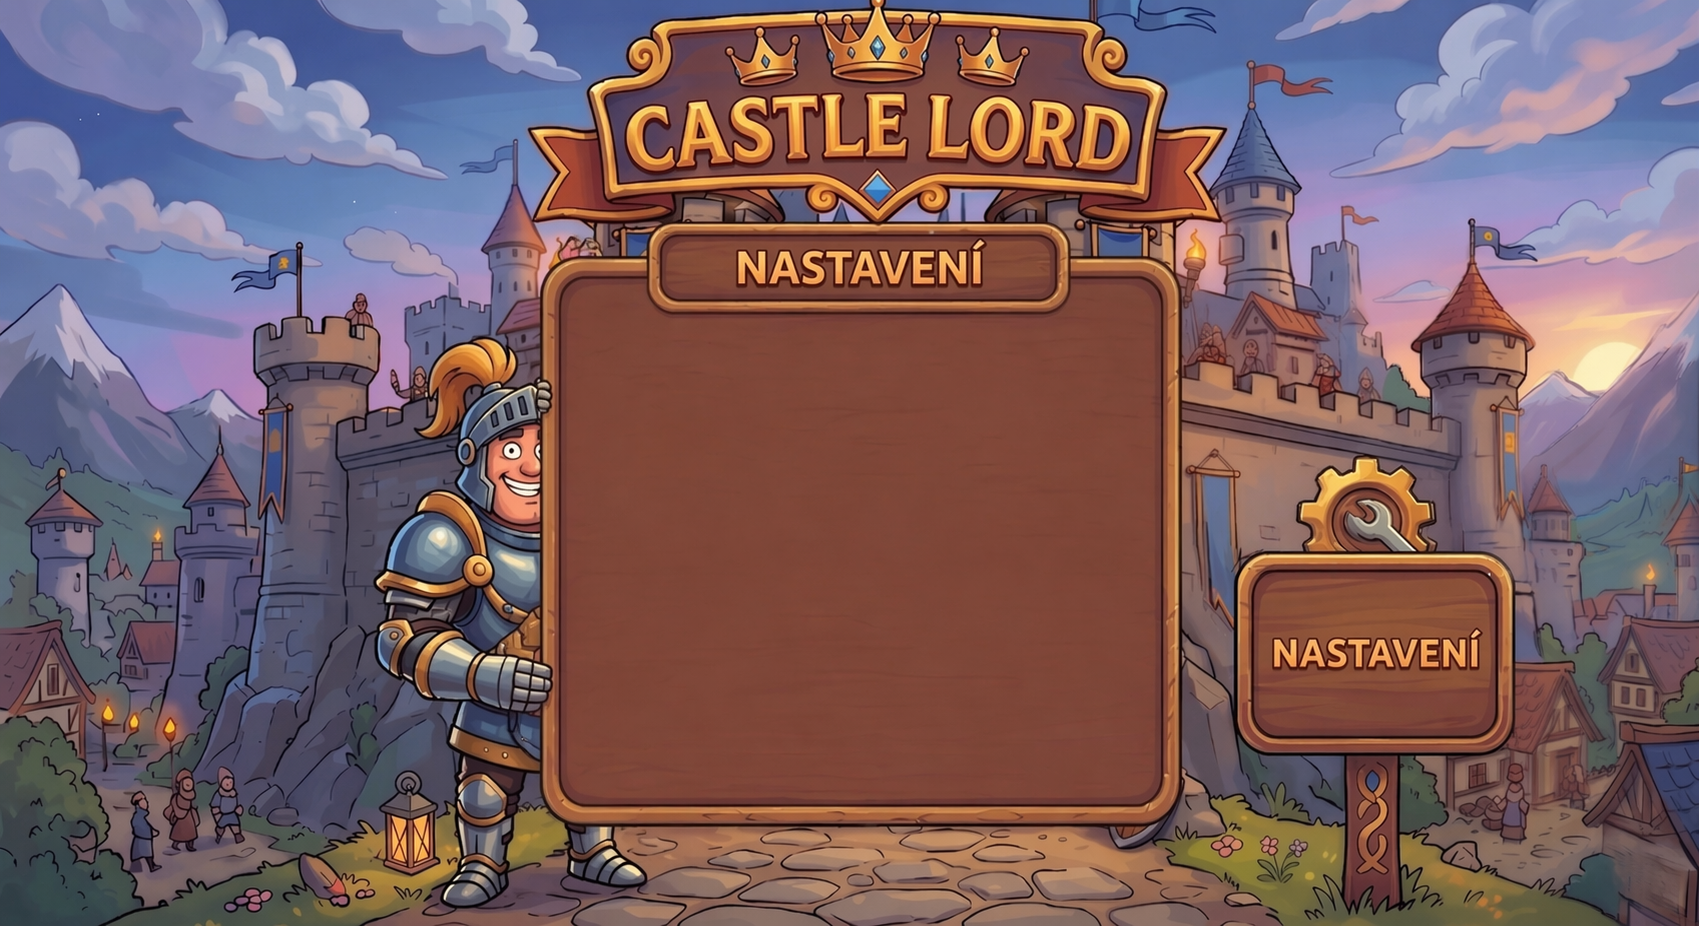
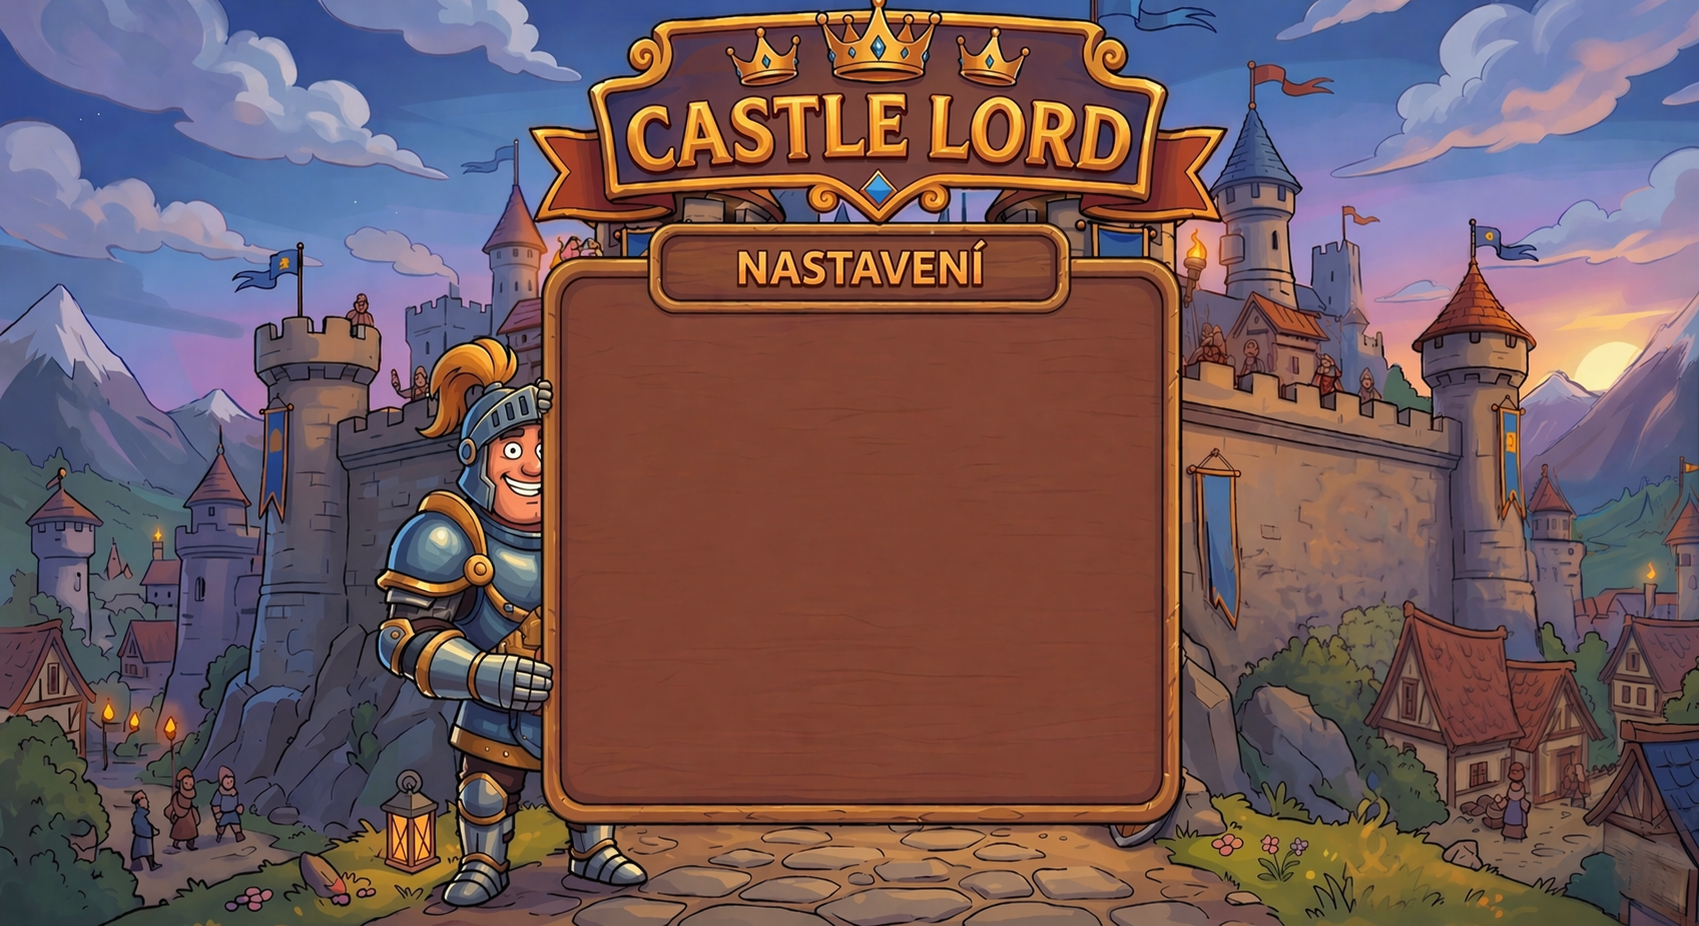
NacitaciObrazovka

diff --git a/src/Obrazovky/Tlacitka/StylTlacitek.java b/src/Obrazovky/Tlacitka/StylTlacitek.java
@@ -1,5 +1,6 @@
 package Obrazovky.Tlacitka;
 
+import javax.imageio.ImageIO;
 import javax.swing.*;
 import java.awt.*;
 import java.net.URL;
@@ -31,25 +32,28 @@ public class StylTlacitek extends JButton {
         b.setFocusPainted(false);
         b.setText(null);
     }
-    public void nastavJakoObrazek(String cestaKObrazku, int sirka, int vyska) {
+    public static void nastavJakoObrazek(JButton tlacitko, String cesta, int sirka, int vyska) {
         try {
-            java.net.URL url = getClass().getResource(cestaKObrazku);
+            URL url = StylTlacitek.class.getResource(cesta);
             if (url != null) {
-                java.awt.Image original = javax.imageio.ImageIO.read(url);
-                java.awt.Image zmensenyObrazek = original.getScaledInstance(sirka, vyska, java.awt.Image.SCALE_SMOOTH);
-                this.setIcon(new javax.swing.ImageIcon(zmensenyObrazek));
+                Image original = ImageIO.read(url);
+                Image zmenseny = original.getScaledInstance(sirka, vyska, Image.SCALE_SMOOTH);
+                tlacitko.setIcon(new ImageIcon(zmenseny));
             } else {
-                System.out.println(cestaKObrazku);
+                System.err.println("Chyba: Obrázek nenalezen: " + cesta);
             }
-            this.setBorderPainted(false);
-            this.setFocusPainted(false);
-            this.setContentAreaFilled(false);
-            this.setOpaque(false);
-            this.setPreferredSize(new java.awt.Dimension(sirka, vyska));
+            tlacitko.setContentAreaFilled(false);
+            tlacitko.setBorderPainted(false);
+            tlacitko.setFocusPainted(false);
+            tlacitko.setOpaque(false);
+            tlacitko.setBorder(null);
+            tlacitko.setText(null);
+
+            tlacitko.setPreferredSize(new Dimension(sirka, vyska));
+            tlacitko.setSize(sirka, vyska);
 
         } catch (Exception e) {
-            System.out.println(  e.getMessage());
+            e.printStackTrace();
         }
     }
-
 }

diff --git a/src/Obrazovky/NacitaciObrazovka.java b/src/Obrazovky/NacitaciObrazovka.java
@@ -7,7 +7,7 @@ import javax.swing.*;
 public class NacitaciObrazovka extends Obrazovka {
 
 
-    private JButton btnStart;
+    private JButton btnHrat;
     private JButton btnNastaveni;
     private JButton btnKonec;
     PanelNaPozadi nacitaciPanel;
@@ -15,7 +15,9 @@ public class NacitaciObrazovka extends Obrazovka {
 
     public NacitaciObrazovka(String nazev) {
         super(nazev, false);
-        nacitaciPanel = new PanelNaPozadi("/Obrazky/ObrazkyNaNacitaciObrazovce/pozadiNacitaciObrazovky.png");
+        btnHrat = new JButton("");
+        btnNastaveni = new JButton("");
+
 
     }
     int vyska = Hra.vyskaObrazovky;
@@ -23,28 +25,25 @@ public class NacitaciObrazovka extends Obrazovka {
 
     @Override
     public void inicializace() {
+        nacitaciPanel = new PanelNaPozadi("/Obrazky/ObrazkyNaNacitaciObrazovce/pozadiNacitaciObrazovky.png");
+        btnNastaveni.setBounds(40,100,100,100);
+        nacitaciPanel.setLayout(null);
+
+        nacitaciPanel.add(btnNastaveni);
+
+
         this.okno.setContentPane(nacitaciPanel);
-        btnStart = new JButton();
-        btnNastaveni = new JButton();
-        btnStart.setBounds((int) ( sirka*0.30), (int) ( vyska*0.439), (int) ( sirka*0.14), (int) (vyska*0.25));
-        btnNastaveni.setBounds((int) ( sirka*0.58), (int) ( vyska*0.5), (int) ( sirka*0.12), (int) (vyska*0.22));
-        StylTlacitek.zmenitNaNeviditelneTlacitko(btnStart);
-        StylTlacitek.zmenitNaNeviditelneTlacitko(btnNastaveni);
-        okno.add(btnStart);
-        okno.add(btnNastaveni);
 
         funkcnost();
-        okno.setLayout(null);
+
         this.okno.setVisible(true);
-
-
     }
 
     @Override
     public void funkcnost() {
 
 
-        btnStart.addActionListener(e -> {
+        btnHrat.addActionListener(e -> {
 
 
             new ObrazovkaHradu("Hrad", false).inicializace();

diff --git a/src/Obrazovky/ObrazovkaHradu.java b/src/Obrazovky/ObrazovkaHradu.java
@@ -9,19 +9,20 @@ import java.awt.*;
 public class ObrazovkaHradu extends Obrazovka{
     private Hrad hrad;
     private PanelNaPozadi panelHradu;
-    private StylTlacitek btnKasarna;
-    private StylTlacitek btnStavba;
+    private JButton btnKasarna;
+    private JButton btnStavba;
     public ObrazovkaHradu(String nazev, boolean malaObrazovka) {
         super(nazev, malaObrazovka);
 
-        btnKasarna = new StylTlacitek("Kasárna");
-        btnStavba = new StylTlacitek("Stavba");
-        btnKasarna.nastavJakoObrazek("/Obrazky/ObrazkyVHradu/Barracks.png", 400, 225);
-        btnStavba.nastavJakoObrazek("/Obrazky/ObrazkyVHradu/StavbaTlacitko.png", 280, 80);
+        btnKasarna = new JButton("Kasárna");
+        btnStavba = new JButton("Stavba");
+
     }
 
     @Override
     public void inicializace() {
+        StylTlacitek.nastavJakoObrazek(btnKasarna, "/Obrazky/ObrazkyVHradu/Barracks.png", 400, 225);
+        StylTlacitek.nastavJakoObrazek(btnStavba,"/Obrazky/ObrazkyVHradu/StavbaTlacitko.png", 280, 80);
         panelHradu = new PanelNaPozadi("/Obrazky/ObrazkyVHradu/PozadiHradu.png");
         panelHradu.setLayout(new BorderLayout());
         JPanel stredovyPanel = new JPanel(new GridBagLayout());

diff --git a/src/Obrazovky/SoubojovaObrazovka.java b/src/Obrazovky/SoubojovaObrazovka.java
@@ -63,7 +63,7 @@ public class SoubojovaObrazovka extends Obrazovka {
         int barVyska = (int)(vyskaMonitoru * 0.04);
 
         Font fontJmeno = new Font("Arial", Font.BOLD, (int)(sirkaMonitoru * 0.012));
-        int YPostav = (int)(vyskaMonitoru * 0.35);
+        int YPostav = (int)(vyskaMonitoru * 0.45);
 
         int XHrdiny = (sirkaMonitoru / 2) - sirkaPostavy - (int)(sirkaMonitoru * 0.02);
 
@@ -124,7 +124,7 @@ public class SoubojovaObrazovka extends Obrazovka {
 
         float pomerZivotuHrac = (float)aktualniHPTymu / maxHPTymu;
         int hracBarX = (int)(sirkaMonitoru * 0.1);
-        int barY = (int)(vyskaMonitoru * 0.1);
+        int barY = (int)(vyskaMonitoru * 0.2);
 
         grafika.setColor(new Color(50, 50, 50));
         grafika.fillRect(hracBarX, barY, barSirka, barVyska);

diff --git a/src/Main.java b/src/Main.java
@@ -6,13 +6,13 @@ import Obrazovky.SoubojovaObrazovka;
 
 public class Main {
     public static void main(String[] args) {
-//        SoubojovaObrazovka arena = new SoubojovaObrazovka("Bitva", false);
-//        arena.inicializace();
-//        arena.funkcnost();
-          NacitaciObrazovka n = new NacitaciObrazovka("");
-          n.inicializace();
+        SoubojovaObrazovka arena = new SoubojovaObrazovka("Bitva", false);
+        arena.inicializace();
+        arena.funkcnost();
+//          NacitaciObrazovka n = new NacitaciObrazovka("");
+//          n.inicializace();
 
-//        ObrazovkaHradu h = new ObrazovkaHradu("hrad", false, new Hrad());
+//        ObrazovkaHradu h = new ObrazovkaHradu("hrad", false);
 //        h.inicializace();
 
 
